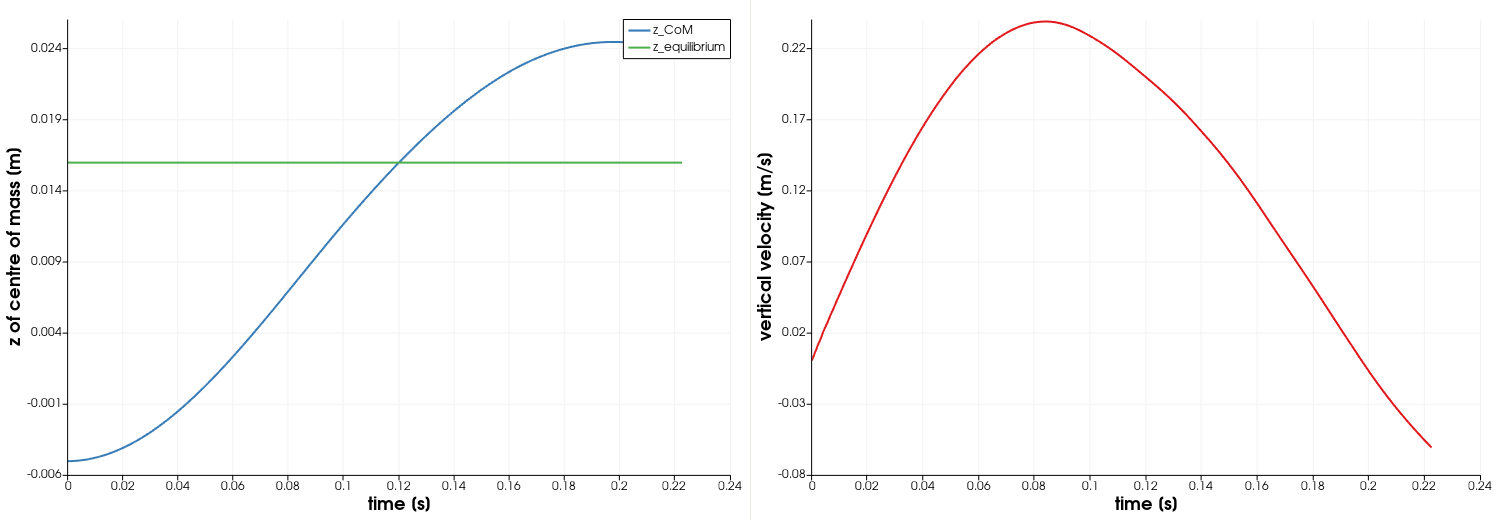
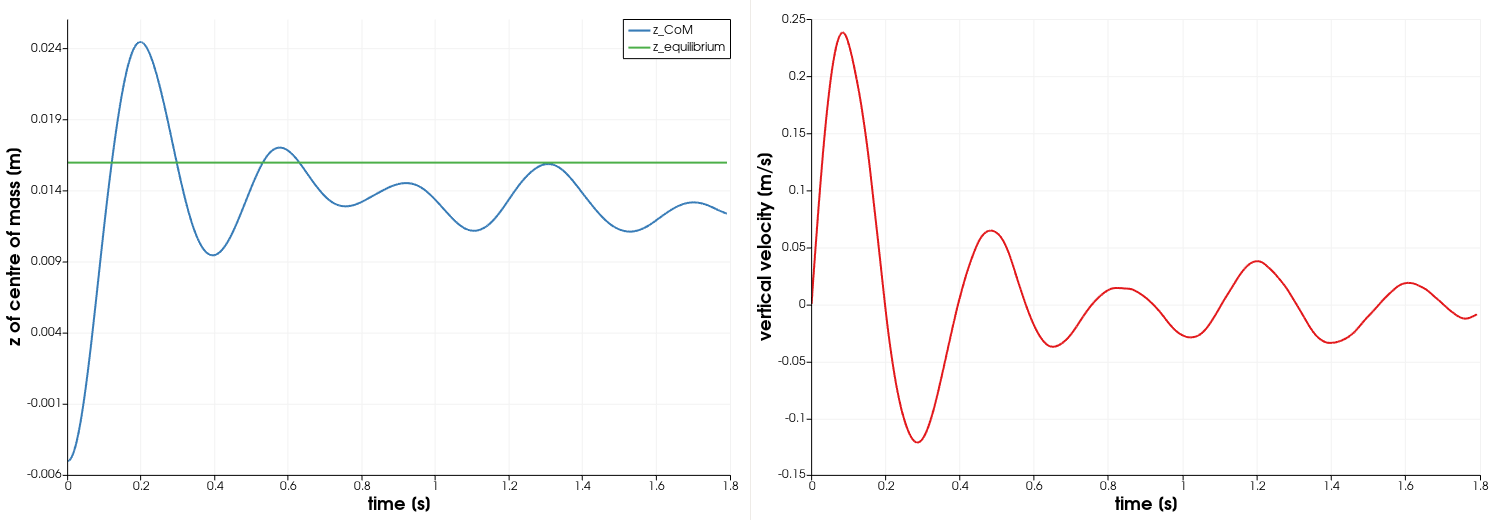
Document the longest project 12 run and refresh its images
The longest run reached t = 1.79 s of 3 s before it was interrupted.
verify.py gives 18 PASS, 2 FAIL (max yaw 4.2 deg, water volume -0.7 %)
and 4 SKIP; the README now states this, with the measured values, and
the heave plot and a t = 1.75 s free-surface image come from that run.

diff --git a/projects/12_boat_hull_floating/README.md b/projects/12_boat_hull_floating/README.md
@@ -51,16 +51,29 @@ consistency with them.
 | Early motion (measured, t ≤ 0.22 s) | z rises from −0.0050 m, crosses z = +0.016 m at t = 0.12 s with v ≈ 0.19 m/s, peaks at **+0.0244 m at t = 0.197 s** (8.5 mm above equilibrium), then falls back | `log.interFoam` |
 | Settling | damped heave oscillation around z = +0.016 m | physical expectation, **not verified** (see below) |
 
-**The full 3 s run was NOT completed.** It needs several hours on one core
-(see section 9). Two partial runs were made: the first was stopped with
-`stopAt writeNow` after **0.2225 s** (743 s of solver time, 1181 time steps;
-screenshots and the motion table below come from it); a second, repeated
-full-length run was started and killed at 0.244 s (about 1800 s of solver
-time on a loaded machine) because of a deadline. Both give the same motion
-up to 0.2225 s. Within that time the hull rose from z = −0.0050 m to a first
-maximum of +0.0244 m (t = 0.197 s) and was falling again at the end
-(z = +0.0236 m, v_z = −0.06 m/s). The settled state and the oscillation decay
-were therefore *not* observed; `verify.py` reports those checks as SKIP.
+**The full 3 s run was NOT completed, and two checks FAIL on the longest
+run.** The case needs several hours on one core (about 6000 s of wall-clock
+time per simulated second on this machine, see section 9). The longest run
+reached **t = 1.791 s** (10 759 s of solver time) and was then interrupted by a
+machine shutdown; time directories exist up to 1.75 s. Within that time the
+hull rose from z = −0.0050 m, first crossed the equilibrium height
+z = +0.016 m at t = 0.12 s, peaked at +0.0244 m at t = 0.197 s and was at
+z = +0.0124 m with v_z = −0.0086 m/s at the end. The settled state and the
+oscillation decay were therefore *not* observed; `verify.py` reports those
+four checks as SKIP.
+
+`verify.py` result at t = 1.791 s: **18 PASS, 2 FAIL, 4 SKIP.** The two FAILs
+are real findings and were **not** tuned away:
+
+| Check | Measured | Limit | What is known |
+|-------|----------|-------|---------------|
+| max yaw | 4.17° | ≤ 2° | was 0.51° at 0.24 s, so the yaw grows with time although the hull is symmetric and nothing excites it. A numerical asymmetry (the snappyHexMesh mesh is not exactly symmetric) amplified by the free yaw axis is the likely cause; **not diagnosed**. |
+| water volume conserved | 0.56732 vs 0.57123 (−0.69 %) | ± 0.0015 absolute on the fraction (0.26 % relative) | the water fraction in the domain drops by 0.7 % over 1.79 s; cause **not diagnosed** (candidates: water leaving through the open boundaries, or non-conservation of alpha on the moving mesh). |
+
+The mesh, the constraints, the Courant numbers, boundedness of alpha,
+momentum balance and heave direction all pass. Until the run is repeated to
+3 s and the two FAILs are understood, treat the heave motion results as
+**unverified** beyond the first second.
 
 ## Verification method
 
@@ -88,28 +101,28 @@ message. SKIP is used for checks that need the full run (to `endTime`).
 | no fatal error / NaN | solver log is clean | none | exact | none (after the controlDict fix, see below) |
 | DoF constraints | only z translation and z rotation allowed | tensors `(0 0 0 0 0 0 0 0 1)` | exact | as expected |
 | initial water volume fraction | setFields + mesh give water below z = 0 minus submerged hull | 0.57127 (from block dimensions and STL) | ± 2e-4 (52 cm³: snapped hull volume known to ~10 % of 211 cm³) | 0.57123 |
-| water volume conserved | no net water loss through boundaries / MULES | first value | ± 1.5e-3 relative (225 cm³ = 0.3 mm level change = 5 % of the draft) | −6.3e-4 relative |
+| water volume conserved | no net water loss through boundaries / MULES | first value | ± 1.5e-3 absolute on the fraction (225 cm³ = 0.3 mm level change = 5 % of the draft) | **FAIL**: −6.9e-3 relative (0.56732 vs 0.57123) at t = 1.79 s; was −6.3e-4 at 0.24 s |
 | alpha.water bounded | interface not smeared/oscillating | within [0, 1] | ± 0.01 (1 % of range) | +2.3e-4 / −6.6e-6 |
 | max Courant | stable explicit convection | ≤ 0.5 | stability bound; case limit 0.4 is exceeded transiently because deltaT follows the previous step | 0.434 |
 | max interface Courant | stable MULES transport | ≤ 0.5 | same; case limit 0.25 | 0.368 |
 | surge/sway | line constraint holds | 0 | 1e-9 m (round-off) | 0 |
 | pitch/roll | axis constraint holds | 0 | 1e-6 (round-off) | 0 |
-| max yaw | symmetric hull does not yaw | 0° | 2° (numerical asymmetry only) | 0.51° |
+| max yaw | symmetric hull does not yaw | 0° | 2° (numerical asymmetry only) | **FAIL**: 4.17° at t = 1.79 s (0.51° at 0.24 s) |
 | max heave speed | no blow-up; energy bound sqrt(2 (ρgV − mg) Δz / m) | ≤ 1.32 m/s | 15 % margin on the bound | 0.239 m/s |
-| momentum balance | force output and motion agree: m·v = accelerationDamping · ∫(F − mg) dt | −0.00486 kg m/s | ± 5 % of ∫\|F − mg\| dt = 0.0016 (sampling and relaxation lag) | −0.00474 kg m/s |
-| centre of mass rises | direction of motion (consistency only) | z_end − z_start > 1e-4 m | none, sign check | +0.0269 m |
-| time directories | results written | ≥ 1 | exact | 4 (0.05 … 0.2) |
+| momentum balance | force output and motion agree: m·v = accelerationDamping · ∫(F − mg) dt | −0.00065 kg m/s | ± 0.0034 (sampling and relaxation lag; the longer run has a larger ∫\|F − mg\| dt) | −0.00043 kg m/s |
+| centre of mass rises | direction of motion (consistency only) | z_end − z_start > 1e-4 m | none, sign check | +0.0174 m |
+| time directories | results written | ≥ 1 | exact | 35 (0.05 … 1.75) |
 | settled z of centre of mass | converges to Archimedes equilibrium z = +0.0160 m | +0.0160 m | ± 3 mm (half the draft; waterline cells are 6 mm) | SKIP (needs run to 3 s), **unverified** |
-| heave oscillation decays | damping | — | — | SKIP (needs run to 3 s), **unverified** |
+| heave oscillation decays | damping | — | — | SKIP (needs run to 3 s), **unverified** (also the amplitude, final speed and period checks) |
 
-The first partial run was made before `sixDoFRigidBodyState` was removed
+An earlier partial run was made before `sixDoFRigidBodyState` was removed
 from `controlDict` (that function object does not exist in OpenFOAM.org v6;
 OpenFOAM printed a "FOAM FATAL ERROR: Unknown function type" warning at
 start and at each `controlDict` re-read). `verify.py` flagged it (FAIL on
-"no fatal error"). In the second run, with the entry removed, the log has no
-such message and **`verify.py` gives 20 PASS, 0 FAIL, 2 SKIP** at t = 0.244 s
-(measured values in the table are from this run). The two SKIP checks
-(settled height, oscillation decay) need the full 3 s and are **unverified**.
+"no fatal error"). With the entry removed the log has no such message.
+The measured values in the table are from the longest run (t = 1.791 s);
+the settled height, oscillation decay, final speed and period need the full
+3 s and are **unverified**.
 
 ---
 
@@ -1061,7 +1074,8 @@ machine shared with other jobs):
 | interFoam                  | 0.63 s per time step (3 outer × 3 pressure correctors) |
 | deltaT during the run      | 6.0e-5 … 8.8e-4 s (mean 1.9e-4 s) |
 | 0.2225 s simulated         | 743 s (1181 time steps) |
-| 3 s simulated (extrapolated, **not run**) | ≈ 2.5–3 h on an idle core; a repeat run on a loaded machine needed ≈ 1.2 s per step (0.244 s in 1800 s), i.e. about 5 h |
+| 1.79 s simulated (longest run) | 10 759 s of solver time, about 6000 s per simulated second |
+| 3 s simulated (extrapolated from the longest run) | ≈ 5 h on one core |
 
 For parallel runs (use at most as many ranks as you have cores):
 
@@ -1116,8 +1130,11 @@ converged value). Plot `heave.dat` with gnuplot, matplotlib or ParaView.
 
 *Left: z of the centre of mass against the Archimedes equilibrium
 z = +0.016 m (from the STL). Right: vertical velocity. The hull passes the
-equilibrium height at t = 0.12 s and peaks at +0.0244 m at t = 0.197 s
-(run stopped at 0.2225 s). Made by `make_images.py` from `log.interFoam`.*
+equilibrium height at t = 0.12 s and peaks at +0.0244 m at t = 0.197 s; after
+that the heave is a damped oscillation (period about 0.8 s, from the maxima at
+0.57, 0.93 and 1.31 s) whose mean lies about 3 mm below z = +0.016 m at
+1.79 s, when the run was interrupted. The plot is made by `make_images.py` from
+`log.interFoam` (`images/heave_early.png` shows the first 0.25 s).*
 
 ### 10.2 Visualising in ParaView
 
@@ -1138,11 +1155,13 @@ Key visualisations:
 ![Free surface, t = 0.10 s](images/free_surface_1.png)
 ![Free surface, t = 0.15 s](images/free_surface_2.png)
 ![Free surface, t = 0.20 s](images/free_surface_3.png)
+![Free surface, t = 1.75 s](images/free_surface_4.png)
 
 *`alpha.water` on the y = 0 plane (blue = water, white = air; the red line is
 the hull outline, the hull interior has no cells). The hull rises out of the
 water; at 0.20 s its keel is about 2 mm above the undisturbed waterline
-(z = 0) and the water surface is raised around it. Images are made by
+(z = 0) and the water surface is raised around it. At 1.75 s the hull floats
+with its keel in the water again and the surface is slightly tilted. Images are made by
 `make_images.py` (`pvbatch make_images.py`, run in the project directory
 after a run).*
 
